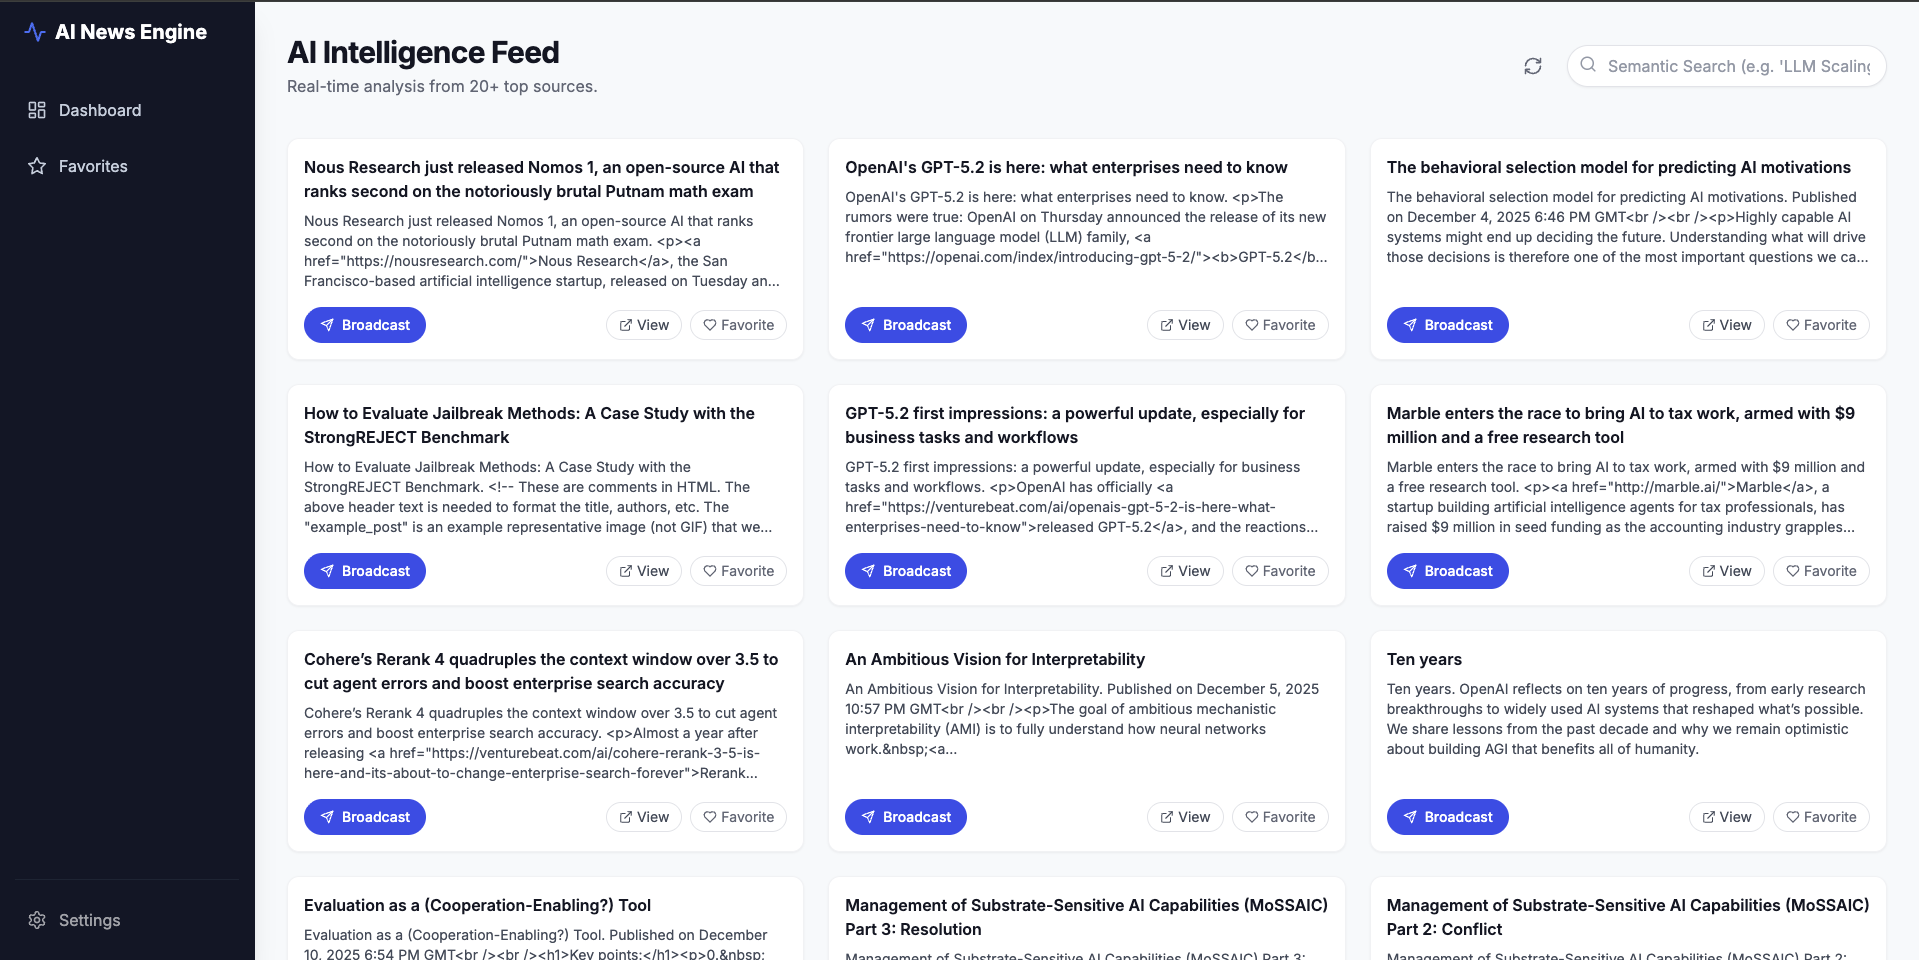
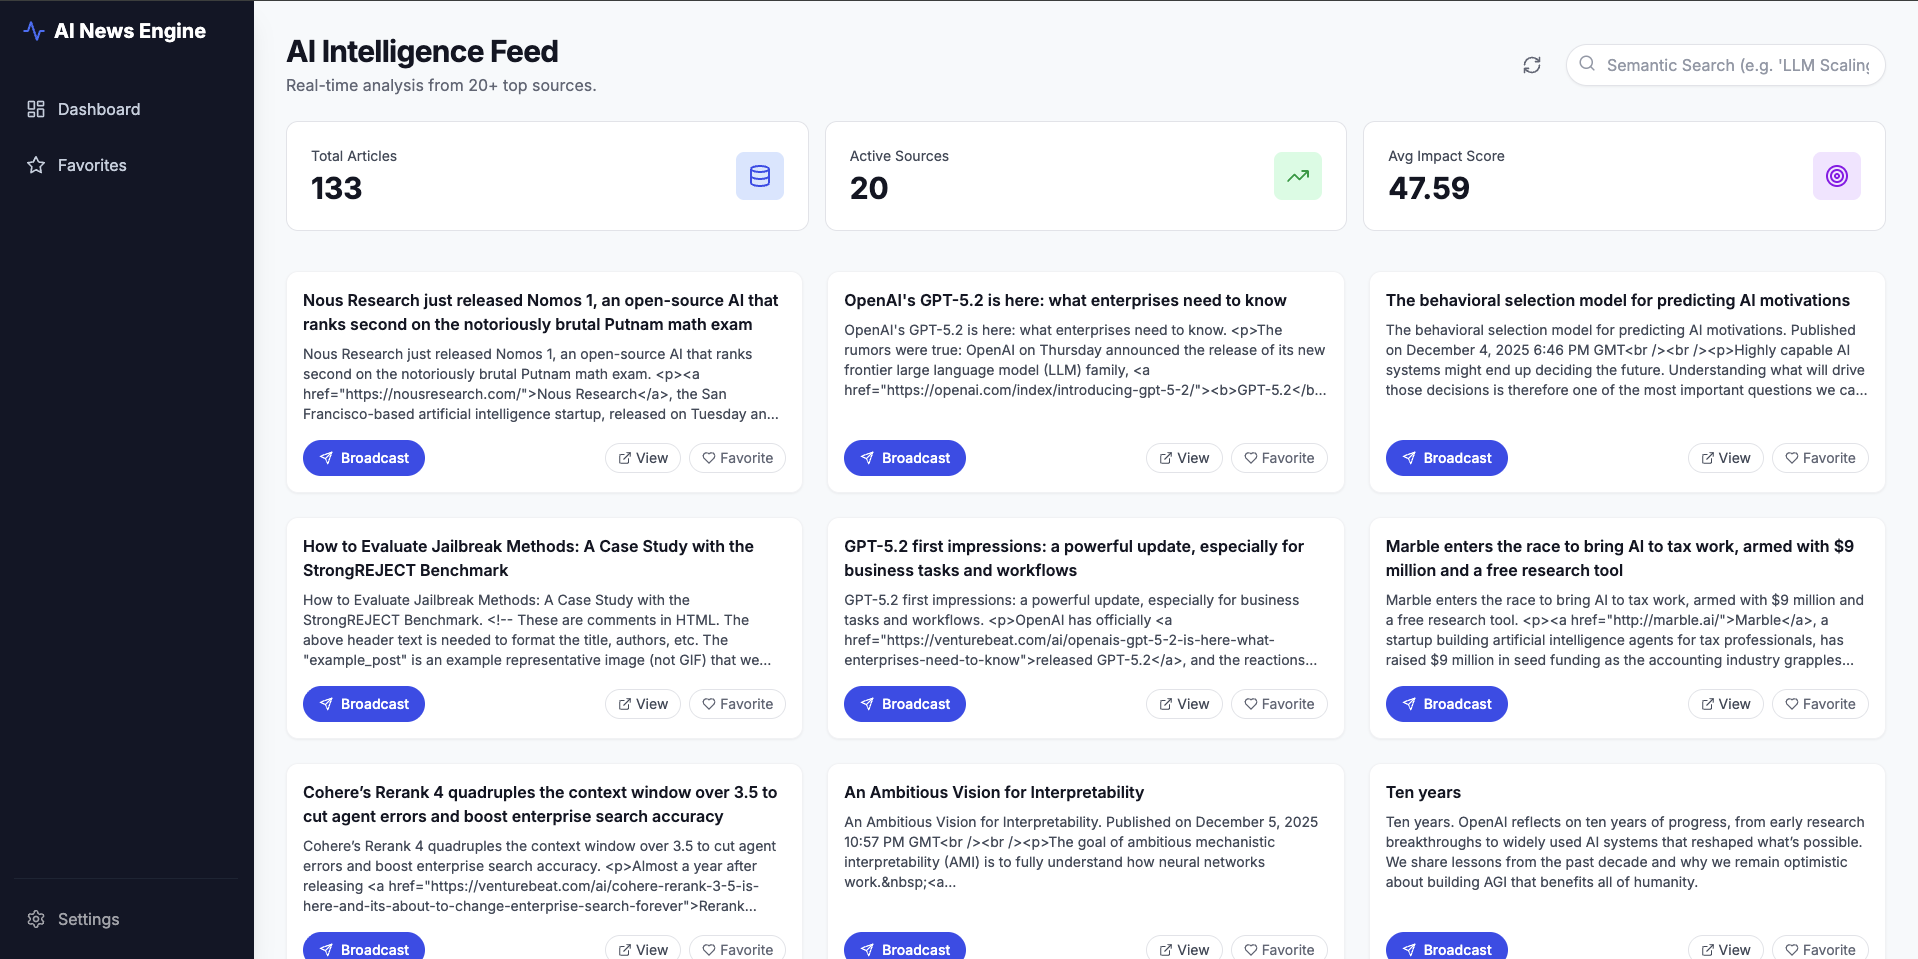
Fix : broadcast logs to the databse, stats in the dashboard

diff --git a/frontend/src/app/page.tsx b/frontend/src/app/page.tsx
@@ -1,17 +1,28 @@
 "use client";
 
 import { useEffect, useState } from "react";
-import { fetchNews, searchNews, NewsItem } from "@/lib/api";
+import {
+  fetchNews,
+  searchNews,
+  getDashboardStats,
+  type NewsItem,
+  type DashboardStats,
+} from "@/lib/api";
 import NewsCard from "@/components/ui/NewsCard";
 import Sidebar from "@/components/ui/Sidebar";
-import { Search, RefreshCw } from "lucide-react";
+import StatsCard from "@/components/ui/StatsCard";
+import { Search, RefreshCw, Database, TrendingUp, Target } from "lucide-react";
 
 export default function Dashboard() {
   const [news, setNews] = useState<NewsItem[]>([]);
   const [query, setQuery] = useState("");
   const [loading, setLoading] = useState(true);
+  const [stats, setStats] = useState<DashboardStats>({
+    total_news: 0,
+    total_sources: 0,
+    avg_impact_score: 0,
+  });
 
-  // Load initial data
   useEffect(() => {
     loadNews();
   }, []);
@@ -19,8 +30,12 @@ export default function Dashboard() {
   const loadNews = async () => {
     setLoading(true);
     try {
-      const data = await fetchNews();
-      setNews(data);
+      const [newsData, statsData] = await Promise.all([
+        fetchNews(),
+        getDashboardStats(),
+      ]);
+      setNews(newsData);
+      setStats(statsData);
     } catch (e) {
       console.error(e);
     }
@@ -31,7 +46,6 @@ export default function Dashboard() {
     e.preventDefault();
     setLoading(true);
     try {
-      // Use Semantic Search if query exists, else regular fetch
       const data = query ? await searchNews(query) : await fetchNews();
       setNews(data);
     } catch (e) {
@@ -44,31 +58,62 @@ export default function Dashboard() {
     <div className="flex min-h-screen bg-slate-50">
       <Sidebar />
       <main className="ml-64 flex-1 p-8">
-        <header className="flex justify-between items-center mb-10">
-          <div>
-            <h1 className="text-3xl font-bold text-gray-900 tracking-tight">AI Intelligence Feed</h1>
-            <p className="text-gray-500 mt-1">Real-time analysis from 20+ top sources.</p>
-          </div>
-          
-          <div className="flex items-center gap-4">
-             <button 
-              onClick={loadNews} 
-              className="p-2 text-gray-500 hover:bg-gray-200 rounded-full transition-colors"
-              title="Refresh Feed"
-            >
-              <RefreshCw size={20} />
-            </button>
+        <header className="mb-10">
+          <div className="flex justify-between items-center mb-6">
+            <div>
+              <h1 className="text-3xl font-bold text-gray-900 tracking-tight">
+                AI Intelligence Feed
+              </h1>
+              <p className="text-gray-500 mt-1">
+                Real-time analysis from 20+ top sources.
+              </p>
+            </div>
 
-            <form onSubmit={handleSearch} className="relative group">
-              <Search className="absolute left-3 top-2.5 text-gray-400 group-focus-within:text-blue-500" size={18} />
-              <input 
-                type="text" 
-                placeholder="Semantic Search (e.g. 'LLM Scaling')" 
-                className="pl-10 pr-4 py-2 bg-white border border-gray-200 rounded-full w-80 focus:ring-2 focus:ring-blue-500 focus:border-transparent outline-none shadow-sm transition-all"
-                value={query}
-                onChange={(e) => setQuery(e.target.value)}
-              />
-            </form>
+            <div className="flex items-center gap-4">
+              <button
+                onClick={loadNews}
+                className="p-2 text-gray-500 hover:bg-gray-200 rounded-full transition-colors"
+                title="Refresh Feed"
+              >
+                <RefreshCw size={20} />
+              </button>
+
+              <form onSubmit={handleSearch} className="relative group">
+                <Search
+                  className="absolute left-3 top-2.5 text-gray-400 group-focus-within:text-blue-500"
+                  size={18}
+                />
+                <input
+                  type="text"
+                  placeholder="Semantic Search (e.g. 'LLM Scaling')"
+                  className="pl-10 pr-4 py-2 bg-white border border-gray-200 rounded-full w-80 focus:ring-2 focus:ring-blue-500 focus:border-transparent outline-none shadow-sm transition-all"
+                  value={query}
+                  onChange={(e) => setQuery(e.target.value)}
+                />
+              </form>
+            </div>
+          </div>
+
+          {/* Top stats cards */}
+          <div className="grid grid-cols-1 md:grid-cols-3 gap-4">
+            <StatsCard
+              title="Total Articles"
+              value={stats.total_news}
+              icon={Database}
+              color="bg-blue-100 text-blue-600"
+            />
+            <StatsCard
+              title="Active Sources"
+              value={stats.total_sources}
+              icon={TrendingUp}
+              color="bg-green-100 text-green-600"
+            />
+            <StatsCard
+              title="Avg Impact Score"
+              value={stats.avg_impact_score}
+              icon={Target}
+              color="bg-purple-100 text-purple-600"
+            />
           </div>
         </header>
 

diff --git a/backend/app/api/v1/endpoints/broadcast.py b/backend/app/api/v1/endpoints/broadcast.py
@@ -7,23 +7,33 @@ from app.db import crud
 
 router = APIRouter()
 
+
 @router.post("/", response_model=BroadcastResponse)
 async def broadcast_item(
-    request: BroadcastRequest, 
-    db: Session = Depends(get_db)
+    request: BroadcastRequest,
+    db: Session = Depends(get_db),
 ):
     news_item = crud.get_news_by_id(db, request.news_item_id)
     if not news_item:
         raise HTTPException(status_code=404, detail="News item not found")
-        
+
+    # Call service (simulate sending)
     result = await broadcast_service.broadcast_news(
-        news_item, 
-        request.platform, 
-        request.custom_message
+        news_item,
+        request.platform,
+        request.custom_message,
     )
-    
+
+    # Log to broadcast_logs table
+    crud.log_broadcast(
+        db,
+        news_id=request.news_item_id,
+        platform=request.platform,
+        status=result.get("status", "success"),
+    )
+
     return {
-        "status": result["status"], 
-        "platform": request.platform, 
-        "message": "Broadcast executed successfully"
+        "status": result["status"],
+        "platform": request.platform,
+        "message": "Broadcast executed successfully",
     }
